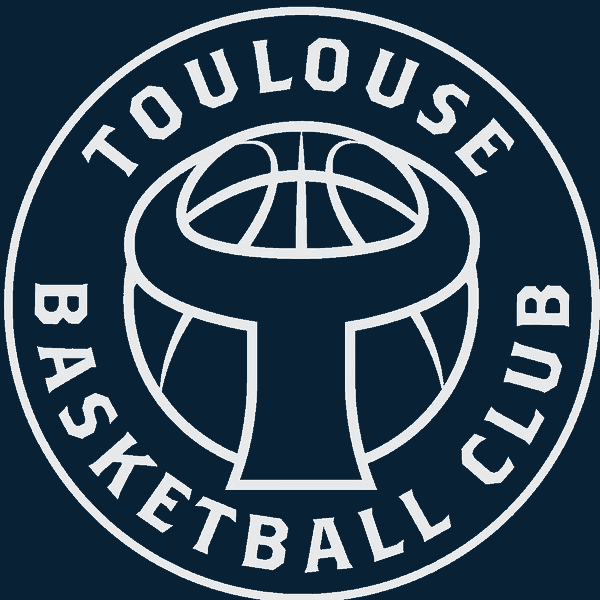
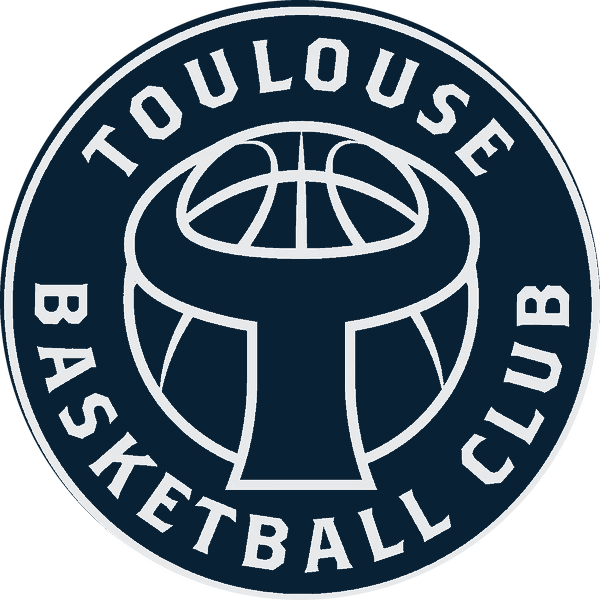
Add files via upload

diff --git a/partenaires.html b/partenaires.html
@@ -31,14 +31,14 @@
            Un bloc <a class="bp-item"> par partenaire. Le script duplique
            la liste autant de fois qu'il faut pour remplir le bandeau,
            inutile d'en écrire plusieurs fois.
-           La classe plein remplit le rond, sans elle le logo reste entier.
+           La classe large donne une case plus longue aux logos très allongés.
            ============================================================ -->
       <div class="bandeau-partenaires" aria-label="Nos partenaires">
         <div class="bp-piste">
-          <a class="bp-item" href="partenaires.html" title="Toulouse Basketball Club"><img src="bp-tbc.png" alt="Toulouse Basketball Club" class="plein"></a>
-          <a class="bp-item" href="partenaires.html" title="Badin Conseil"><img src="bp-badin.png" alt="Badin Conseil"></a>
-          <a class="bp-item" href="partenaires.html" title="Rioux Technology"><img src="bp-entreprise.png" alt="Rioux Technology"></a>
-          <a class="bp-item" href="partenaires.html" title="BCLM"><img src="bp-bclm.png" alt="BCLM"></a>
+          <a class="bp-item" href="partenaire-tbc.html" title="Toulouse Basketball Club"><img src="bp-tbc.png" alt="Toulouse Basketball Club"></a>
+          <a class="bp-item large" href="partenaire-badin.html" title="Badin Conseil"><img src="bp-badin.png" alt="Badin Conseil"></a>
+          <a class="bp-item" href="partenaire-rioux.html" title="Rioux Technology"><img src="bp-entreprise.png" alt="Rioux Technology"></a>
+          <a class="bp-item" href="partenaire-bclm.html" title="BCLM"><img src="bp-bclm.png" alt="BCLM"></a>
         </div>
       </div>
     </div>
@@ -104,40 +104,28 @@
         <div class="coach-photo vide large"><img src="logo-badin.png" alt="Badin Conseil"></div>
         <h3>Badin Conseil</h3>
         <p class="coach-role">Conseil pour les affaires et autres conseils de gestion</p>
-        <p class="coach-texte">Présentation en cours de rédaction.</p>
-        <!--
-        <a href="https://exemple.fr" class="btn btn-red coach-lien" target="_blank" rel="noopener">Visiter le site</a>
-        -->
+        <a href="partenaire-badin.html" class="btn btn-red coach-lien">En savoir plus</a>
       </article>
 
       <article class="coach">
         <div class="coach-photo"><img src="logo-tbc.png" alt="Toulouse Basketball Club"></div>
         <h3>Toulouse Basketball Club</h3>
         <p class="coach-role">Club de basketball</p>
-        <p class="coach-texte">Présentation en cours de rédaction.</p>
-        <!--
-        <a href="https://exemple.fr" class="btn btn-red coach-lien" target="_blank" rel="noopener">Visiter le site</a>
-        -->
+        <a href="partenaire-tbc.html" class="btn btn-red coach-lien">En savoir plus</a>
       </article>
 
       <article class="coach">
         <div class="coach-photo vide"><img src="logo-entreprise.png" alt="Rioux Technology"></div>
         <h3>Rioux Technology</h3>
         <p class="coach-role">Conseil en systèmes et logiciels informatiques</p>
-        <p class="coach-texte">Présentation en cours de rédaction.</p>
-        <!--
-        <a href="https://exemple.fr" class="btn btn-red coach-lien" target="_blank" rel="noopener">Visiter le site</a>
-        -->
+        <a href="partenaire-rioux.html" class="btn btn-red coach-lien">En savoir plus</a>
       </article>
 
       <article class="coach">
         <div class="coach-photo vide"><img src="logo-bclm.png" alt="BCLM"></div>
         <h3>BCLM</h3>
         <p class="coach-role">Club de basketball</p>
-        <p class="coach-texte">Présentation en cours de rédaction.</p>
-        <!--
-        <a href="https://exemple.fr" class="btn btn-red coach-lien" target="_blank" rel="noopener">Visiter le site</a>
-        -->
+        <a href="partenaire-bclm.html" class="btn btn-red coach-lien">En savoir plus</a>
       </article>
 
     </div>

diff --git a/style.css b/style.css
@@ -286,15 +286,16 @@ a:focus-visible,button:focus-visible{outline:3px solid var(--gold);outline-offse
 }
 .bp-piste{display:flex;align-items:center;gap:var(--bp-gap);width:max-content}
 
+/* pas de rond : le logo seul, contenu dans une case de taille fixe */
 .bp-item{
   display:flex;align-items:center;justify-content:center;flex:none;
-  width:var(--bp-rond);height:var(--bp-rond);border-radius:50%;overflow:hidden;
-  background:var(--creme);border:2px solid var(--navy);
-  opacity:.82;transition:opacity .18s ease;
+  width:var(--bp-rond);height:var(--bp-rond);
+  background:none;border:none;
 }
-.bp-item:hover{opacity:1}
-.bp-item img{width:100%;height:100%;object-fit:contain;padding:16%}
-.bp-item img.plein{object-fit:cover;padding:0}
+/* pour les logos très larges, une case plus longue */
+.bp-item.large{width:calc(var(--bp-rond) * 2.4)}
+
+.bp-item img{max-width:100%;max-height:100%;width:auto;height:auto;object-fit:contain}
 .bp-item:focus-visible{outline:3px solid var(--gold);outline-offset:3px}
 
 /* le défilement : la piste contient deux fois la même série,
@@ -425,3 +426,14 @@ body > header,body > section{transition:margin-left .22s ease}
 
 
 @media (prefers-reduced-motion:reduce){.staff-cote,.staff-cote-img{transition:none}}
+
+/* ============================================================
+   FICHE D'UN PARTENAIRE
+   ============================================================ */
+.fiche{margin-top:40px;text-align:center}
+.fiche .coach-photo{margin:0 auto 30px}
+.fiche h2{margin-bottom:10px}
+.fiche .coach-role{margin-bottom:30px}
+.fiche-texte{max-width:62ch;margin:0 auto 18px;font-size:17px;color:var(--navy);text-align:left}
+.fiche-retour{margin-top:40px;font-size:16px}
+.fiche-retour a{color:var(--bordeaux);text-decoration:underline;text-underline-offset:3px}

diff --git a/index.html b/index.html
@@ -31,14 +31,14 @@
            Un bloc <a class="bp-item"> par partenaire. Le script duplique
            la liste autant de fois qu'il faut pour remplir le bandeau,
            inutile d'en écrire plusieurs fois.
-           La classe plein remplit le rond, sans elle le logo reste entier.
+           La classe large donne une case plus longue aux logos très allongés.
            ============================================================ -->
       <div class="bandeau-partenaires" aria-label="Nos partenaires">
         <div class="bp-piste">
-          <a class="bp-item" href="partenaires.html" title="Toulouse Basketball Club"><img src="bp-tbc.png" alt="Toulouse Basketball Club" class="plein"></a>
-          <a class="bp-item" href="partenaires.html" title="Badin Conseil"><img src="bp-badin.png" alt="Badin Conseil"></a>
-          <a class="bp-item" href="partenaires.html" title="Rioux Technology"><img src="bp-entreprise.png" alt="Rioux Technology"></a>
-          <a class="bp-item" href="partenaires.html" title="BCLM"><img src="bp-bclm.png" alt="BCLM"></a>
+          <a class="bp-item" href="partenaire-tbc.html" title="Toulouse Basketball Club"><img src="bp-tbc.png" alt="Toulouse Basketball Club"></a>
+          <a class="bp-item large" href="partenaire-badin.html" title="Badin Conseil"><img src="bp-badin.png" alt="Badin Conseil"></a>
+          <a class="bp-item" href="partenaire-rioux.html" title="Rioux Technology"><img src="bp-entreprise.png" alt="Rioux Technology"></a>
+          <a class="bp-item" href="partenaire-bclm.html" title="BCLM"><img src="bp-bclm.png" alt="BCLM"></a>
         </div>
       </div>
     </div>

diff --git a/maevasoa.html b/maevasoa.html
@@ -31,14 +31,14 @@
            Un bloc <a class="bp-item"> par partenaire. Le script duplique
            la liste autant de fois qu'il faut pour remplir le bandeau,
            inutile d'en écrire plusieurs fois.
-           La classe plein remplit le rond, sans elle le logo reste entier.
+           La classe large donne une case plus longue aux logos très allongés.
            ============================================================ -->
       <div class="bandeau-partenaires" aria-label="Nos partenaires">
         <div class="bp-piste">
-          <a class="bp-item" href="partenaires.html" title="Toulouse Basketball Club"><img src="bp-tbc.png" alt="Toulouse Basketball Club" class="plein"></a>
-          <a class="bp-item" href="partenaires.html" title="Badin Conseil"><img src="bp-badin.png" alt="Badin Conseil"></a>
-          <a class="bp-item" href="partenaires.html" title="Rioux Technology"><img src="bp-entreprise.png" alt="Rioux Technology"></a>
-          <a class="bp-item" href="partenaires.html" title="BCLM"><img src="bp-bclm.png" alt="BCLM"></a>
+          <a class="bp-item" href="partenaire-tbc.html" title="Toulouse Basketball Club"><img src="bp-tbc.png" alt="Toulouse Basketball Club"></a>
+          <a class="bp-item large" href="partenaire-badin.html" title="Badin Conseil"><img src="bp-badin.png" alt="Badin Conseil"></a>
+          <a class="bp-item" href="partenaire-rioux.html" title="Rioux Technology"><img src="bp-entreprise.png" alt="Rioux Technology"></a>
+          <a class="bp-item" href="partenaire-bclm.html" title="BCLM"><img src="bp-bclm.png" alt="BCLM"></a>
         </div>
       </div>
     </div>

diff --git a/merci.html b/merci.html
@@ -32,14 +32,14 @@
            Un bloc <a class="bp-item"> par partenaire. Le script duplique
            la liste autant de fois qu'il faut pour remplir le bandeau,
            inutile d'en écrire plusieurs fois.
-           La classe plein remplit le rond, sans elle le logo reste entier.
+           La classe large donne une case plus longue aux logos très allongés.
            ============================================================ -->
       <div class="bandeau-partenaires" aria-label="Nos partenaires">
         <div class="bp-piste">
-          <a class="bp-item" href="partenaires.html" title="Toulouse Basketball Club"><img src="bp-tbc.png" alt="Toulouse Basketball Club" class="plein"></a>
-          <a class="bp-item" href="partenaires.html" title="Badin Conseil"><img src="bp-badin.png" alt="Badin Conseil"></a>
-          <a class="bp-item" href="partenaires.html" title="Rioux Technology"><img src="bp-entreprise.png" alt="Rioux Technology"></a>
-          <a class="bp-item" href="partenaires.html" title="BCLM"><img src="bp-bclm.png" alt="BCLM"></a>
+          <a class="bp-item" href="partenaire-tbc.html" title="Toulouse Basketball Club"><img src="bp-tbc.png" alt="Toulouse Basketball Club"></a>
+          <a class="bp-item large" href="partenaire-badin.html" title="Badin Conseil"><img src="bp-badin.png" alt="Badin Conseil"></a>
+          <a class="bp-item" href="partenaire-rioux.html" title="Rioux Technology"><img src="bp-entreprise.png" alt="Rioux Technology"></a>
+          <a class="bp-item" href="partenaire-bclm.html" title="BCLM"><img src="bp-bclm.png" alt="BCLM"></a>
         </div>
       </div>
     </div>

diff --git a/nos-actions.html b/nos-actions.html
@@ -31,14 +31,14 @@
            Un bloc <a class="bp-item"> par partenaire. Le script duplique
            la liste autant de fois qu'il faut pour remplir le bandeau,
            inutile d'en écrire plusieurs fois.
-           La classe plein remplit le rond, sans elle le logo reste entier.
+           La classe large donne une case plus longue aux logos très allongés.
            ============================================================ -->
       <div class="bandeau-partenaires" aria-label="Nos partenaires">
         <div class="bp-piste">
-          <a class="bp-item" href="partenaires.html" title="Toulouse Basketball Club"><img src="bp-tbc.png" alt="Toulouse Basketball Club" class="plein"></a>
-          <a class="bp-item" href="partenaires.html" title="Badin Conseil"><img src="bp-badin.png" alt="Badin Conseil"></a>
-          <a class="bp-item" href="partenaires.html" title="Rioux Technology"><img src="bp-entreprise.png" alt="Rioux Technology"></a>
-          <a class="bp-item" href="partenaires.html" title="BCLM"><img src="bp-bclm.png" alt="BCLM"></a>
+          <a class="bp-item" href="partenaire-tbc.html" title="Toulouse Basketball Club"><img src="bp-tbc.png" alt="Toulouse Basketball Club"></a>
+          <a class="bp-item large" href="partenaire-badin.html" title="Badin Conseil"><img src="bp-badin.png" alt="Badin Conseil"></a>
+          <a class="bp-item" href="partenaire-rioux.html" title="Rioux Technology"><img src="bp-entreprise.png" alt="Rioux Technology"></a>
+          <a class="bp-item" href="partenaire-bclm.html" title="BCLM"><img src="bp-bclm.png" alt="BCLM"></a>
         </div>
       </div>
     </div>

diff --git a/nous-soutenir.html b/nous-soutenir.html
@@ -31,14 +31,14 @@
            Un bloc <a class="bp-item"> par partenaire. Le script duplique
            la liste autant de fois qu'il faut pour remplir le bandeau,
            inutile d'en écrire plusieurs fois.
-           La classe plein remplit le rond, sans elle le logo reste entier.
+           La classe large donne une case plus longue aux logos très allongés.
            ============================================================ -->
       <div class="bandeau-partenaires" aria-label="Nos partenaires">
         <div class="bp-piste">
-          <a class="bp-item" href="partenaires.html" title="Toulouse Basketball Club"><img src="bp-tbc.png" alt="Toulouse Basketball Club" class="plein"></a>
-          <a class="bp-item" href="partenaires.html" title="Badin Conseil"><img src="bp-badin.png" alt="Badin Conseil"></a>
-          <a class="bp-item" href="partenaires.html" title="Rioux Technology"><img src="bp-entreprise.png" alt="Rioux Technology"></a>
-          <a class="bp-item" href="partenaires.html" title="BCLM"><img src="bp-bclm.png" alt="BCLM"></a>
+          <a class="bp-item" href="partenaire-tbc.html" title="Toulouse Basketball Club"><img src="bp-tbc.png" alt="Toulouse Basketball Club"></a>
+          <a class="bp-item large" href="partenaire-badin.html" title="Badin Conseil"><img src="bp-badin.png" alt="Badin Conseil"></a>
+          <a class="bp-item" href="partenaire-rioux.html" title="Rioux Technology"><img src="bp-entreprise.png" alt="Rioux Technology"></a>
+          <a class="bp-item" href="partenaire-bclm.html" title="BCLM"><img src="bp-bclm.png" alt="BCLM"></a>
         </div>
       </div>
     </div>

diff --git a/projet-elite.html b/projet-elite.html
@@ -31,14 +31,14 @@
            Un bloc <a class="bp-item"> par partenaire. Le script duplique
            la liste autant de fois qu'il faut pour remplir le bandeau,
            inutile d'en écrire plusieurs fois.
-           La classe plein remplit le rond, sans elle le logo reste entier.
+           La classe large donne une case plus longue aux logos très allongés.
            ============================================================ -->
       <div class="bandeau-partenaires" aria-label="Nos partenaires">
         <div class="bp-piste">
-          <a class="bp-item" href="partenaires.html" title="Toulouse Basketball Club"><img src="bp-tbc.png" alt="Toulouse Basketball Club" class="plein"></a>
-          <a class="bp-item" href="partenaires.html" title="Badin Conseil"><img src="bp-badin.png" alt="Badin Conseil"></a>
-          <a class="bp-item" href="partenaires.html" title="Rioux Technology"><img src="bp-entreprise.png" alt="Rioux Technology"></a>
-          <a class="bp-item" href="partenaires.html" title="BCLM"><img src="bp-bclm.png" alt="BCLM"></a>
+          <a class="bp-item" href="partenaire-tbc.html" title="Toulouse Basketball Club"><img src="bp-tbc.png" alt="Toulouse Basketball Club"></a>
+          <a class="bp-item large" href="partenaire-badin.html" title="Badin Conseil"><img src="bp-badin.png" alt="Badin Conseil"></a>
+          <a class="bp-item" href="partenaire-rioux.html" title="Rioux Technology"><img src="bp-entreprise.png" alt="Rioux Technology"></a>
+          <a class="bp-item" href="partenaire-bclm.html" title="BCLM"><img src="bp-bclm.png" alt="BCLM"></a>
         </div>
       </div>
     </div>

diff --git a/rejoindre.html b/rejoindre.html
@@ -31,14 +31,14 @@
            Un bloc <a class="bp-item"> par partenaire. Le script duplique
            la liste autant de fois qu'il faut pour remplir le bandeau,
            inutile d'en écrire plusieurs fois.
-           La classe plein remplit le rond, sans elle le logo reste entier.
+           La classe large donne une case plus longue aux logos très allongés.
            ============================================================ -->
       <div class="bandeau-partenaires" aria-label="Nos partenaires">
         <div class="bp-piste">
-          <a class="bp-item" href="partenaires.html" title="Toulouse Basketball Club"><img src="bp-tbc.png" alt="Toulouse Basketball Club" class="plein"></a>
-          <a class="bp-item" href="partenaires.html" title="Badin Conseil"><img src="bp-badin.png" alt="Badin Conseil"></a>
-          <a class="bp-item" href="partenaires.html" title="Rioux Technology"><img src="bp-entreprise.png" alt="Rioux Technology"></a>
-          <a class="bp-item" href="partenaires.html" title="BCLM"><img src="bp-bclm.png" alt="BCLM"></a>
+          <a class="bp-item" href="partenaire-tbc.html" title="Toulouse Basketball Club"><img src="bp-tbc.png" alt="Toulouse Basketball Club"></a>
+          <a class="bp-item large" href="partenaire-badin.html" title="Badin Conseil"><img src="bp-badin.png" alt="Badin Conseil"></a>
+          <a class="bp-item" href="partenaire-rioux.html" title="Rioux Technology"><img src="bp-entreprise.png" alt="Rioux Technology"></a>
+          <a class="bp-item" href="partenaire-bclm.html" title="BCLM"><img src="bp-bclm.png" alt="BCLM"></a>
         </div>
       </div>
     </div>

diff --git a/staff.html b/staff.html
@@ -31,14 +31,14 @@
            Un bloc <a class="bp-item"> par partenaire. Le script duplique
            la liste autant de fois qu'il faut pour remplir le bandeau,
            inutile d'en écrire plusieurs fois.
-           La classe plein remplit le rond, sans elle le logo reste entier.
+           La classe large donne une case plus longue aux logos très allongés.
            ============================================================ -->
       <div class="bandeau-partenaires" aria-label="Nos partenaires">
         <div class="bp-piste">
-          <a class="bp-item" href="partenaires.html" title="Toulouse Basketball Club"><img src="bp-tbc.png" alt="Toulouse Basketball Club" class="plein"></a>
-          <a class="bp-item" href="partenaires.html" title="Badin Conseil"><img src="bp-badin.png" alt="Badin Conseil"></a>
-          <a class="bp-item" href="partenaires.html" title="Rioux Technology"><img src="bp-entreprise.png" alt="Rioux Technology"></a>
-          <a class="bp-item" href="partenaires.html" title="BCLM"><img src="bp-bclm.png" alt="BCLM"></a>
+          <a class="bp-item" href="partenaire-tbc.html" title="Toulouse Basketball Club"><img src="bp-tbc.png" alt="Toulouse Basketball Club"></a>
+          <a class="bp-item large" href="partenaire-badin.html" title="Badin Conseil"><img src="bp-badin.png" alt="Badin Conseil"></a>
+          <a class="bp-item" href="partenaire-rioux.html" title="Rioux Technology"><img src="bp-entreprise.png" alt="Rioux Technology"></a>
+          <a class="bp-item" href="partenaire-bclm.html" title="BCLM"><img src="bp-bclm.png" alt="BCLM"></a>
         </div>
       </div>
     </div>
